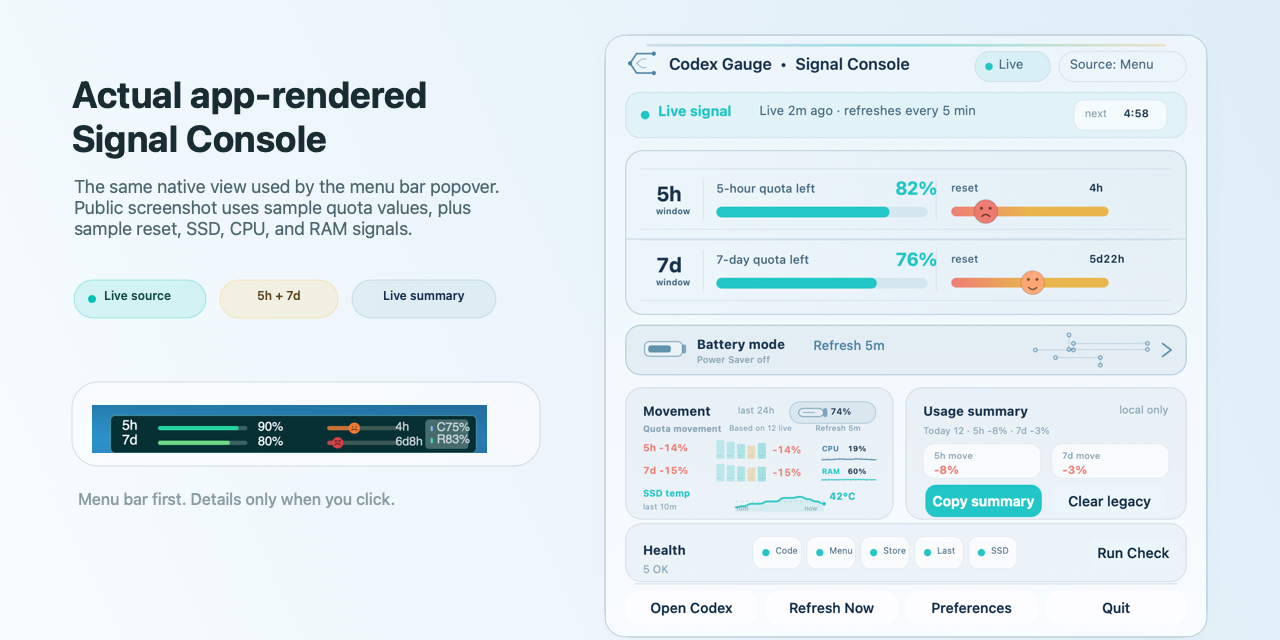
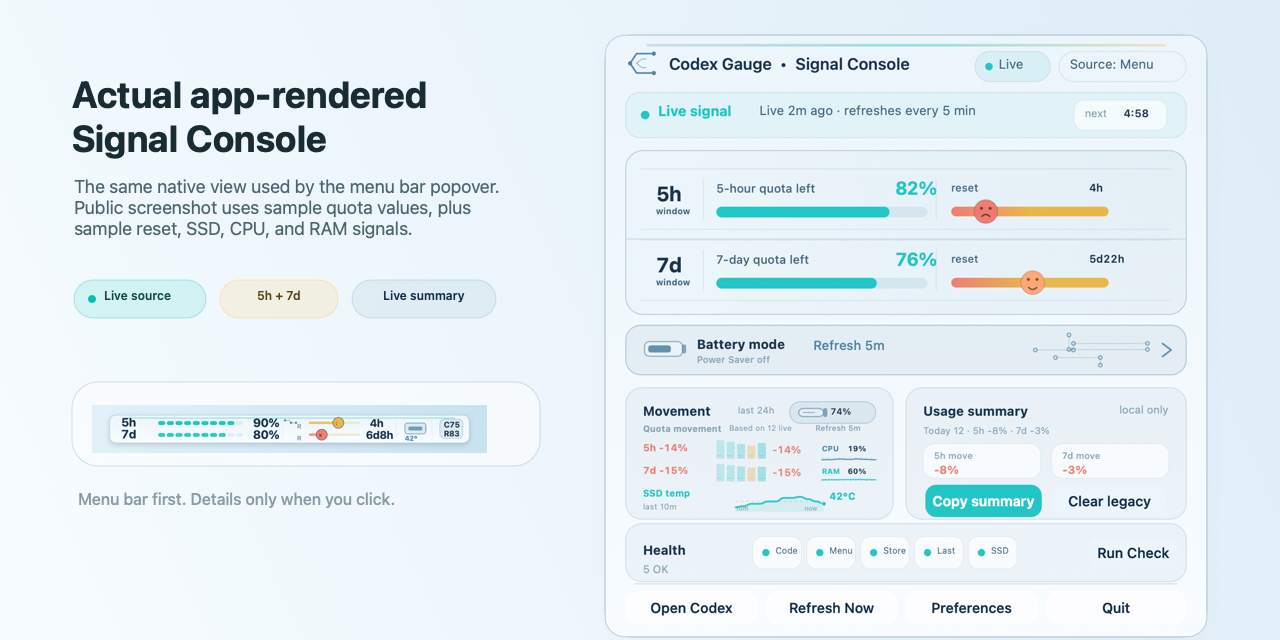
polish menu bar gauge

Changed region(s): [[0.0625, 0.625, 0.4062, 0.7188]]

diff --git a/script/generate_public_assets.swift b/script/generate_public_assets.swift
@@ -9,6 +9,7 @@ let menuBarPath = "docs/assets/codex-gauge-menubar-live.png"
 let consoleOutputPath = "docs/assets/codex-gauge-signal-console.png"
 let socialOutputPath = "docs/assets/codex-gauge-social-preview.png"
 let provenanceText = "actual app-rendered Signal Console"
+let menuBarSize = NSSize(width: 790, height: 96)
 
 func canvasRect(_ rect: NSRect) -> NSRect {
     NSRect(x: rect.minX, y: canvasSize.height - rect.maxY, width: rect.width, height: rect.height)
@@ -116,6 +117,201 @@ func writePNG(_ path: String, drawing: () -> Void) throws {
     print("Wrote \(path)")
 }
 
+func menuBarText(_ value: String, at point: NSPoint, size: CGFloat, weight: NSFont.Weight, color: NSColor, mono: Bool = false) {
+    let font = mono
+        ? NSFont.monospacedDigitSystemFont(ofSize: size, weight: weight)
+        : NSFont.systemFont(ofSize: size, weight: weight)
+    (value as NSString).draw(
+        at: point,
+        withAttributes: [
+            .font: font,
+            .foregroundColor: color,
+        ]
+    )
+}
+
+func drawMenuBarSegmentedRail(value: CGFloat, rect: NSRect, fill: NSColor, track: NSColor) {
+    let count = 10
+    let gap: CGFloat = 3
+    let segmentWidth = (rect.width - gap * CGFloat(count - 1)) / CGFloat(count)
+    let filled = Int(ceil(max(0, min(1, value)) * CGFloat(count)))
+    for index in 0..<count {
+        let segmentRect = NSRect(x: rect.minX + CGFloat(index) * (segmentWidth + gap), y: rect.minY, width: segmentWidth, height: rect.height)
+        let segment = NSBezierPath(roundedRect: segmentRect, xRadius: rect.height / 2, yRadius: rect.height / 2)
+        (index < filled ? fill : track).setFill()
+        segment.fill()
+    }
+}
+
+func drawMenuBarResetLane(value: CGFloat, rect: NSRect, marker: NSColor, track: NSColor, face: String) {
+    let lane = NSBezierPath()
+    lane.move(to: NSPoint(x: rect.minX, y: rect.midY))
+    lane.line(to: NSPoint(x: rect.maxX, y: rect.midY))
+    lane.lineWidth = rect.height
+    lane.lineCapStyle = .round
+    track.setStroke()
+    lane.stroke()
+
+    let fillEnd = rect.minX + rect.width * max(0, min(1, value))
+    let fill = NSBezierPath()
+    fill.move(to: NSPoint(x: rect.minX, y: rect.midY))
+    fill.line(to: NSPoint(x: fillEnd, y: rect.midY))
+    fill.lineWidth = rect.height
+    fill.lineCapStyle = .round
+    marker.withAlphaComponent(0.70).setStroke()
+    fill.stroke()
+
+    let faceRect = NSRect(x: fillEnd - 11, y: rect.midY - 11, width: 22, height: 22)
+    let facePath = NSBezierPath(ovalIn: faceRect)
+    marker.setFill()
+    facePath.fill()
+    NSColor(calibratedRed: 0.14, green: 0.20, blue: 0.25, alpha: 0.86).setStroke()
+    facePath.lineWidth = 1
+    facePath.stroke()
+    menuBarText(face, at: NSPoint(x: faceRect.minX + 5.4, y: faceRect.minY + 4.0), size: 11, weight: .bold, color: NSColor(calibratedRed: 0.12, green: 0.18, blue: 0.24, alpha: 0.82), mono: true)
+}
+
+func drawMenuBarEtchedSeparator(_ x: CGFloat, in rect: NSRect, line: NSColor) {
+    let shadow = NSBezierPath()
+    shadow.move(to: NSPoint(x: x - 0.5, y: rect.minY + 10))
+    shadow.line(to: NSPoint(x: x - 0.5, y: rect.maxY - 10))
+    shadow.lineWidth = 1
+    line.withAlphaComponent(0.42).setStroke()
+    shadow.stroke()
+
+    let highlight = NSBezierPath()
+    highlight.move(to: NSPoint(x: x + 0.5, y: rect.minY + 10))
+    highlight.line(to: NSPoint(x: x + 0.5, y: rect.maxY - 10))
+    highlight.lineWidth = 1
+    NSColor.white.withAlphaComponent(0.62).setStroke()
+    highlight.stroke()
+}
+
+func drawMenuBarCircuitAccent(in rect: NSRect, color: NSColor) {
+    let jointX = rect.minX + rect.width * 0.55
+    let path = NSBezierPath()
+    path.move(to: NSPoint(x: rect.minX, y: rect.midY + 2.5))
+    path.line(to: NSPoint(x: jointX - 3, y: rect.midY + 2.5))
+    path.line(to: NSPoint(x: jointX, y: rect.midY - 2.5))
+    path.line(to: NSPoint(x: rect.maxX, y: rect.midY - 2.5))
+    path.lineWidth = 1.2
+    color.withAlphaComponent(0.62).setStroke()
+    path.stroke()
+
+    for point in [
+        NSPoint(x: rect.minX, y: rect.midY + 2.5),
+        NSPoint(x: jointX, y: rect.midY - 2.5),
+        NSPoint(x: rect.maxX, y: rect.midY - 2.5),
+    ] {
+        let node = NSBezierPath(ovalIn: NSRect(x: point.x - 2.2, y: point.y - 2.2, width: 4.4, height: 4.4))
+        color.setFill()
+        node.fill()
+    }
+}
+
+func writeMenuBarPNG(_ path: String) throws {
+    let bitmap = NSBitmapImageRep(
+        bitmapDataPlanes: nil,
+        pixelsWide: Int(menuBarSize.width),
+        pixelsHigh: Int(menuBarSize.height),
+        bitsPerSample: 8,
+        samplesPerPixel: 4,
+        hasAlpha: true,
+        isPlanar: false,
+        colorSpaceName: .deviceRGB,
+        bytesPerRow: 0,
+        bitsPerPixel: 0
+    )!
+
+    NSGraphicsContext.saveGraphicsState()
+    NSGraphicsContext.current = NSGraphicsContext(bitmapImageRep: bitmap)
+
+    let porcelain = NSColor(calibratedRed: 0.965, green: 0.984, blue: 1.000, alpha: 1.0)
+    let frost = NSColor(calibratedRed: 0.910, green: 0.953, blue: 0.980, alpha: 1.0)
+    let ink = NSColor(calibratedRed: 0.063, green: 0.137, blue: 0.227, alpha: 0.98)
+    let muted = NSColor(calibratedRed: 0.360, green: 0.492, blue: 0.580, alpha: 0.82)
+    let line = NSColor(calibratedRed: 0.659, green: 0.749, blue: 0.816, alpha: 0.88)
+    let teal = NSColor(calibratedRed: 0.114, green: 0.733, blue: 0.718, alpha: 0.96)
+    let blue = NSColor(calibratedRed: 0.216, green: 0.424, blue: 0.561, alpha: 0.96)
+    let amber = NSColor(calibratedRed: 0.886, green: 0.651, blue: 0.208, alpha: 0.96)
+    let coral = NSColor(calibratedRed: 0.906, green: 0.384, blue: 0.361, alpha: 0.96)
+
+    NSGradient(colors: [
+        NSColor(calibratedRed: 0.86, green: 0.93, blue: 0.97, alpha: 1.0),
+        NSColor(calibratedRed: 0.74, green: 0.86, blue: 0.93, alpha: 1.0),
+    ])?.draw(in: NSBezierPath(rect: NSRect(origin: .zero, size: menuBarSize)), angle: 0)
+
+    let strip = NSRect(x: 35, y: 20, width: 720, height: 56)
+    let shadow = NSShadow()
+    shadow.shadowColor = NSColor.black.withAlphaComponent(0.16)
+    shadow.shadowBlurRadius = 12
+    shadow.shadowOffset = NSSize(width: 0, height: -4)
+    NSGraphicsContext.saveGraphicsState()
+    shadow.set()
+    NSBezierPath(roundedRect: strip, xRadius: 12, yRadius: 12).fill()
+    NSGraphicsContext.restoreGraphicsState()
+
+    let capsule = NSBezierPath(roundedRect: strip, xRadius: 12, yRadius: 12)
+    NSGradient(colors: [porcelain, frost])?.draw(in: capsule, angle: 90)
+    line.setStroke()
+    capsule.lineWidth = 1.2
+    capsule.stroke()
+
+    let topRail = NSBezierPath(roundedRect: NSRect(x: strip.minX + 28, y: strip.maxY - 7, width: strip.width - 56, height: 2.2), xRadius: 1.1, yRadius: 1.1)
+    teal.withAlphaComponent(0.42).setFill()
+    topRail.fill()
+    drawMenuBarCircuitAccent(in: NSRect(x: 386, y: strip.maxY - 18, width: 22, height: 10), color: blue)
+
+    drawMenuBarEtchedSeparator(382, in: strip, line: line)
+    drawMenuBarEtchedSeparator(610, in: strip, line: line)
+    drawMenuBarEtchedSeparator(681, in: strip, line: line)
+
+    menuBarText("5h", at: NSPoint(x: 58, y: 48), size: 24, weight: .bold, color: ink, mono: true)
+    menuBarText("7d", at: NSPoint(x: 58, y: 24), size: 24, weight: .bold, color: ink, mono: true)
+    drawMenuBarSegmentedRail(value: 0.90, rect: NSRect(x: 132, y: 56, width: 170, height: 8), fill: teal, track: line.withAlphaComponent(0.28))
+    drawMenuBarSegmentedRail(value: 0.80, rect: NSRect(x: 132, y: 32, width: 170, height: 8), fill: teal.withAlphaComponent(0.88), track: line.withAlphaComponent(0.28))
+    menuBarText("90%", at: NSPoint(x: 322, y: 47), size: 24, weight: .bold, color: ink, mono: true)
+    menuBarText("80%", at: NSPoint(x: 322, y: 23), size: 24, weight: .bold, color: ink, mono: true)
+
+    menuBarText("R", at: NSPoint(x: 410, y: 46), size: 13, weight: .bold, color: muted, mono: true)
+    menuBarText("R", at: NSPoint(x: 410, y: 22), size: 13, weight: .bold, color: muted, mono: true)
+    drawMenuBarResetLane(value: 0.58, rect: NSRect(x: 436, y: 58, width: 98, height: 5), marker: amber, track: amber.withAlphaComponent(0.24), face: ":")
+    drawMenuBarResetLane(value: 0.24, rect: NSRect(x: 436, y: 34, width: 98, height: 5), marker: coral, track: amber.withAlphaComponent(0.24), face: "x")
+    menuBarText("4h", at: NSPoint(x: 556, y: 47), size: 22, weight: .bold, color: ink, mono: true)
+    menuBarText("6d8h", at: NSPoint(x: 548, y: 23), size: 22, weight: .bold, color: ink, mono: true)
+
+    let battery = NSBezierPath(roundedRect: NSRect(x: 626, y: 38, width: 42, height: 22), xRadius: 5, yRadius: 5)
+    blue.withAlphaComponent(0.13).setFill()
+    battery.fill()
+    blue.withAlphaComponent(0.78).setStroke()
+    battery.lineWidth = 1.4
+    battery.stroke()
+    NSBezierPath(roundedRect: NSRect(x: 666, y: 45, width: 4, height: 8), xRadius: 2, yRadius: 2).fill()
+    blue.withAlphaComponent(0.70).setFill()
+    NSBezierPath(roundedRect: NSRect(x: 633, y: 45, width: 28, height: 8), xRadius: 3, yRadius: 3).fill()
+    menuBarText("42°", at: NSPoint(x: 626, y: 21), size: 14, weight: .bold, color: blue, mono: true)
+
+    let chip = NSBezierPath(roundedRect: NSRect(x: 696, y: 29, width: 46, height: 39), xRadius: 9, yRadius: 9)
+    blue.withAlphaComponent(0.12).setFill()
+    chip.fill()
+    blue.withAlphaComponent(0.42).setStroke()
+    chip.lineWidth = 1
+    chip.stroke()
+    menuBarText("C75", at: NSPoint(x: 704, y: 47), size: 16, weight: .bold, color: ink, mono: true)
+    menuBarText("R83", at: NSPoint(x: 704, y: 29), size: 16, weight: .bold, color: ink, mono: true)
+
+    NSGraphicsContext.restoreGraphicsState()
+
+    guard let data = bitmap.representation(using: .png, properties: [:]) else {
+        fatalError("Could not encode \(path)")
+    }
+    let url = URL(fileURLWithPath: path)
+    try FileManager.default.createDirectory(at: url.deletingLastPathComponent(), withIntermediateDirectories: true)
+    try data.write(to: url)
+    print("Wrote \(path)")
+}
+
+try writeMenuBarPNG(menuBarPath)
 let blueCeramicPanel = loadImage(blueCeramicFixturePath)
 let darkPanel = loadImage(darkFixturePath)
 let menuBar = loadImage(menuBarPath)

diff --git a/native/CodexGauge.swift b/native/CodexGauge.swift
@@ -4902,12 +4902,7 @@ private final class CodexGaugeApp: NSObject, NSApplicationDelegate {
 
         let palette = gaugePalette()
         let nonLiveMode = isNonLiveSource(source)
-        palette.background.setFill()
-        let frame = NSBezierPath(roundedRect: NSRect(origin: .zero, size: statusImageSize), xRadius: 4, yRadius: 4)
-        frame.fill()
-        (nonLiveMode ? palette.border.withAlphaComponent(0.34) : palette.border).setStroke()
-        frame.lineWidth = 1
-        frame.stroke()
+        drawMenuBarChrome(source: source, nonLiveMode: nonLiveMode, palette: palette)
         drawSignalSourceRail(source: source, palette: palette)
         drawSourceIndicator(source: source, palette: palette)
         drawStatusStateBadge(source: source, palette: palette)
@@ -4937,6 +4932,81 @@ private final class CodexGaugeApp: NSObject, NSApplicationDelegate {
         image.addRepresentation(bitmap)
         image.isTemplate = false
         return image
+    }
+
+    private func drawMenuBarChrome(source: String?, nonLiveMode: Bool, palette: GaugePalette) {
+        drawMenuBarPorcelainCapsule(nonLiveMode: nonLiveMode, palette: palette)
+        drawMenuBarZoneSeparators(palette: palette)
+        drawMenuBarCircuitAccent(source: source, palette: palette)
+    }
+
+    private func drawMenuBarPorcelainCapsule(nonLiveMode: Bool, palette: GaugePalette) {
+        let rect = NSRect(x: 0.5, y: 0.5, width: statusImageSize.width - 1, height: statusImageSize.height - 1)
+        let capsule = NSBezierPath(roundedRect: rect, xRadius: 5.8, yRadius: 5.8)
+        let theme = currentSignalConsoleTheme()
+        let top = isDarkMenuBar()
+            ? palette.background.blended(withFraction: 0.10, of: theme.blueAccent) ?? palette.background
+            : NSColor.white.withAlphaComponent(0.78)
+        let bottom = isDarkMenuBar()
+            ? palette.background.blended(withFraction: 0.10, of: NSColor.black) ?? palette.background
+            : palette.background.blended(withFraction: 0.10, of: theme.blueSoft) ?? palette.background
+        NSGradient(colors: [top, bottom])?.draw(in: capsule, angle: 90)
+
+        (nonLiveMode ? palette.border.withAlphaComponent(0.34) : palette.border).setStroke()
+        capsule.lineWidth = 0.9
+        capsule.stroke()
+
+        let highlight = NSBezierPath()
+        highlight.move(to: NSPoint(x: rect.minX + 9, y: rect.maxY - 2.5))
+        highlight.line(to: NSPoint(x: rect.maxX - 9, y: rect.maxY - 2.5))
+        highlight.lineWidth = 0.6
+        (isDarkMenuBar() ? NSColor.white.withAlphaComponent(0.10) : NSColor.white.withAlphaComponent(0.58)).setStroke()
+        highlight.stroke()
+    }
+
+    private func drawMenuBarZoneSeparators(palette: GaugePalette) {
+        drawMenuBarEtchedSeparator(x: 78, palette: palette)
+        drawMenuBarEtchedSeparator(x: 112, palette: palette)
+        drawMenuBarEtchedSeparator(x: 164, palette: palette)
+        drawMenuBarEtchedSeparator(x: 202, palette: palette)
+    }
+
+    private func drawMenuBarEtchedSeparator(x: CGFloat, palette: GaugePalette) {
+        let shadow = NSBezierPath()
+        shadow.move(to: NSPoint(x: x - 0.5, y: 4.7))
+        shadow.line(to: NSPoint(x: x - 0.5, y: statusImageSize.height - 5.0))
+        shadow.lineWidth = 0.45
+        palette.border.withAlphaComponent(isDarkMenuBar() ? 0.22 : 0.34).setStroke()
+        shadow.stroke()
+
+        let highlight = NSBezierPath()
+        highlight.move(to: NSPoint(x: x + 0.5, y: 4.7))
+        highlight.line(to: NSPoint(x: x + 0.5, y: statusImageSize.height - 5.0))
+        highlight.lineWidth = 0.45
+        (isDarkMenuBar() ? NSColor.white.withAlphaComponent(0.06) : NSColor.white.withAlphaComponent(0.58)).setStroke()
+        highlight.stroke()
+    }
+
+    private func drawMenuBarCircuitAccent(source: String?, palette: GaugePalette) {
+        let color = sourceIndicatorColor(source) ?? currentSignalConsoleTheme().mintAccent
+        let path = NSBezierPath()
+        path.move(to: NSPoint(x: 84.0, y: 18.1))
+        path.line(to: NSPoint(x: 92.5, y: 18.1))
+        path.line(to: NSPoint(x: 96.0, y: 16.3))
+        path.line(to: NSPoint(x: 104.5, y: 16.3))
+        path.lineWidth = 0.6
+        color.withAlphaComponent(isDarkMenuBar() ? 0.38 : 0.46).setStroke()
+        path.stroke()
+
+        for point in [
+            NSPoint(x: 84.0, y: 18.1),
+            NSPoint(x: 96.0, y: 16.3),
+            NSPoint(x: 104.5, y: 16.3),
+        ] {
+            let node = NSBezierPath(ovalIn: NSRect(x: point.x - 1.0, y: point.y - 1.0, width: 2.0, height: 2.0))
+            color.withAlphaComponent(isDarkMenuBar() ? 0.52 : 0.62).setFill()
+            node.fill()
+        }
     }
 
     private func drawSourceIndicator(source: String?, palette: GaugePalette) {

diff --git a/tests/test_signal_console_ux.py b/tests/test_signal_console_ux.py
@@ -687,6 +687,34 @@ class SignalConsoleUXTests(unittest.TestCase):
         self.assertIn("fiveHourResetCountdown(resetEpoch)", source)
         self.assertIn("sevenDayResetCountdown(resetEpoch)", source)
 
+    def test_menu_bar_uses_blue_ceramic_instrument_strip_polish(self):
+        source = pathlib.Path("native/CodexGauge.swift").read_text()
+
+        for token in [
+            "drawMenuBarPorcelainCapsule",
+            "drawMenuBarEtchedSeparator",
+            "drawMenuBarCircuitAccent",
+            "drawMenuBarZoneSeparators",
+            "drawMenuBarChrome",
+        ]:
+            self.assertIn(token, source)
+
+        signature = "private func makeStatusImage(fiveHourLeft: Int?, sevenDayLeft: Int?, fiveHourReset: Double?, sevenDayReset: Double?, source: String?, ssdTemperature: SSDTemperatureStatus?, systemMetric: SystemMetricSample?, batteryStatus: BatteryStatus?) -> NSImage"
+        make_status_body = self._swift_function_body(source, signature)
+        self.assertIn("drawMenuBarChrome(source: source, nonLiveMode: nonLiveMode, palette: palette)", make_status_body)
+        self.assertLess(make_status_body.index("drawMenuBarChrome"), make_status_body.index("drawSignalSourceRail"))
+        self.assertNotIn("palette.background.setFill()", make_status_body)
+        self.assertNotIn("frame.fill()", make_status_body)
+
+        chrome_body = self._swift_function_body(source, "private func drawMenuBarChrome(source: String?, nonLiveMode: Bool, palette: GaugePalette)")
+        self.assertIn("drawMenuBarPorcelainCapsule", chrome_body)
+        self.assertIn("drawMenuBarZoneSeparators", chrome_body)
+        self.assertIn("drawMenuBarCircuitAccent", chrome_body)
+
+        separator_body = self._swift_function_body(source, "private func drawMenuBarZoneSeparators(palette: GaugePalette)")
+        for x in ["78", "112", "164", "202"]:
+            self.assertIn(f"drawMenuBarEtchedSeparator(x: {x}", separator_body)
+
     def test_reset_countdowns_use_progressive_units(self):
         source = pathlib.Path("native/CodexGauge.swift").read_text()
 

diff --git a/tests/test_public_release_hygiene.py b/tests/test_public_release_hygiene.py
@@ -178,6 +178,22 @@ class PublicReleaseHygieneTests(unittest.TestCase):
         self.assertIn("pixelWidth: 1280", console_result.stdout)
         self.assertIn("pixelHeight: 640", console_result.stdout)
 
+        live_result = subprocess.run(
+            ["sips", "-g", "pixelWidth", "-g", "pixelHeight", str(live)],
+            check=True,
+            text=True,
+            stdout=subprocess.PIPE,
+        )
+        self.assertIn("pixelWidth: 790", live_result.stdout)
+        self.assertIn("pixelHeight: 96", live_result.stdout)
+
+    def test_public_asset_generator_draws_menu_bar_strip(self):
+        script = pathlib.Path("script/generate_public_assets.swift").read_text()
+
+        self.assertIn("writeMenuBarPNG(menuBarPath)", script)
+        self.assertIn("drawMenuBarEtchedSeparator", script)
+        self.assertIn("drawMenuBarCircuitAccent", script)
+
     def test_theme_state_visual_fixture_generator_covers_all_states(self):
         script = pathlib.Path("script/generate_theme_state_previews.swift")
         fixture = pathlib.Path("docs/design/codex-gauge-theme-state-fixtures.png")
